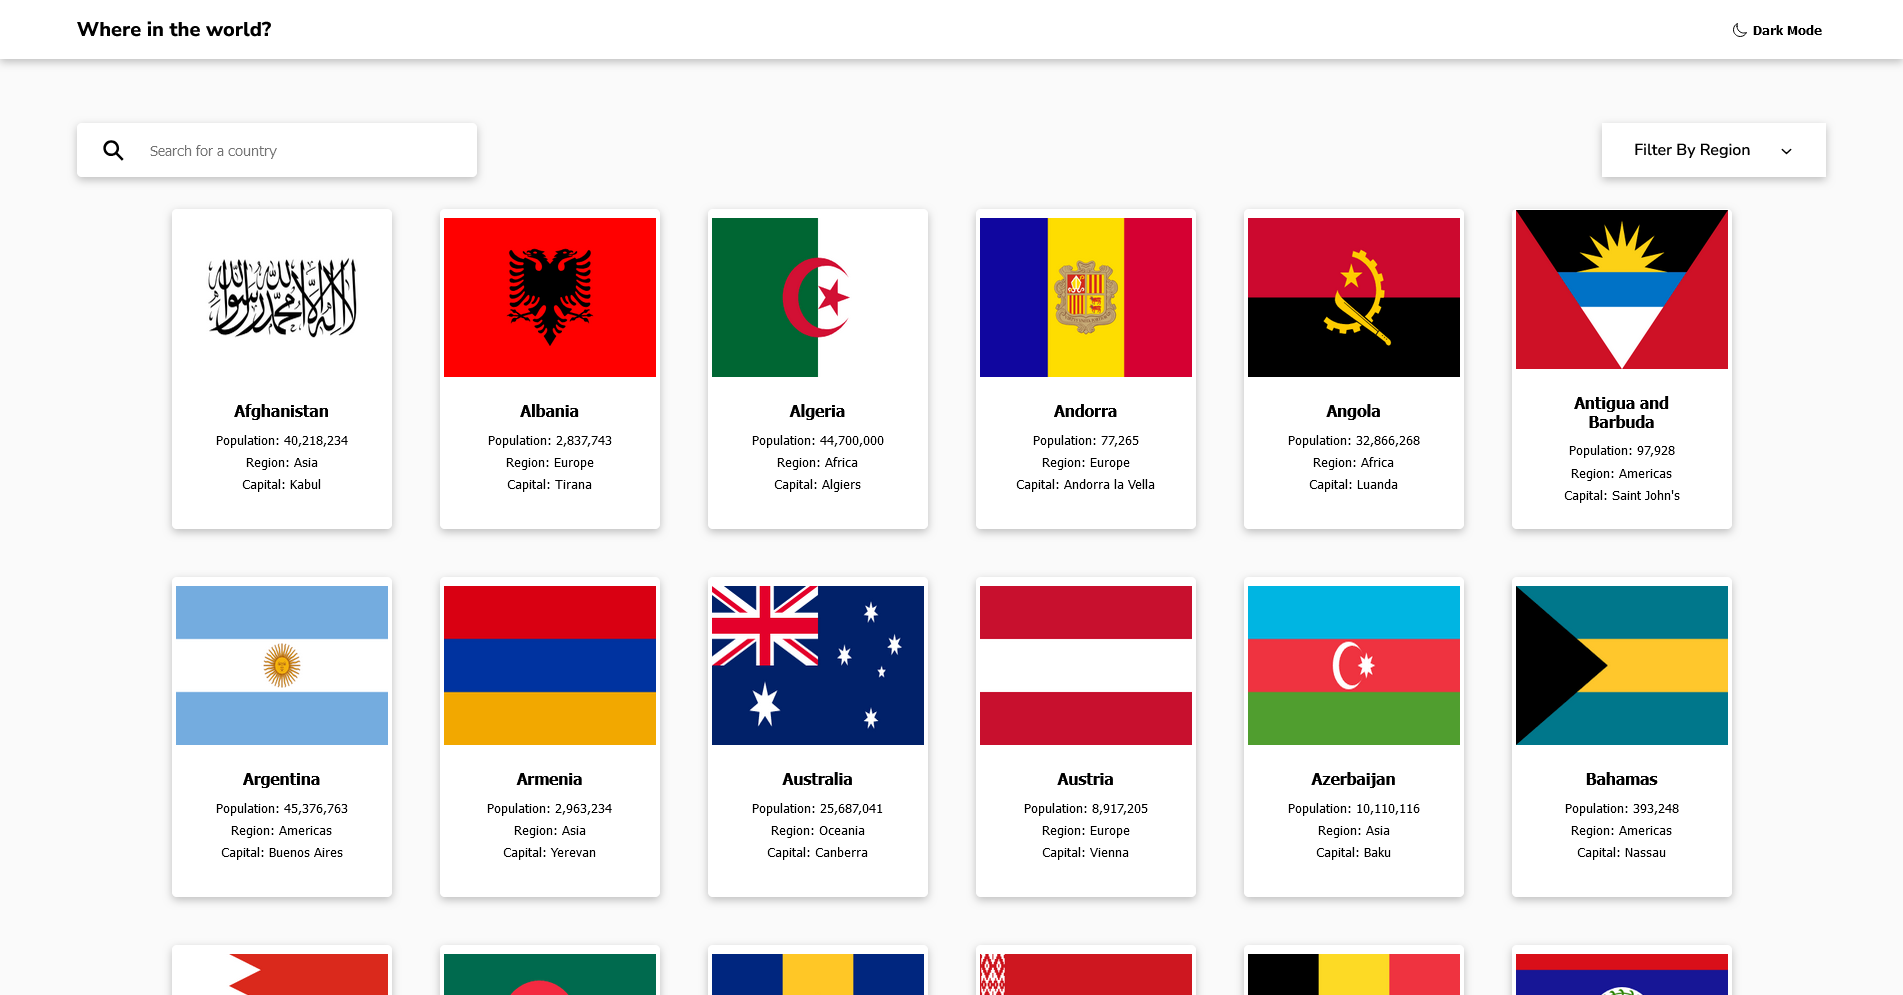
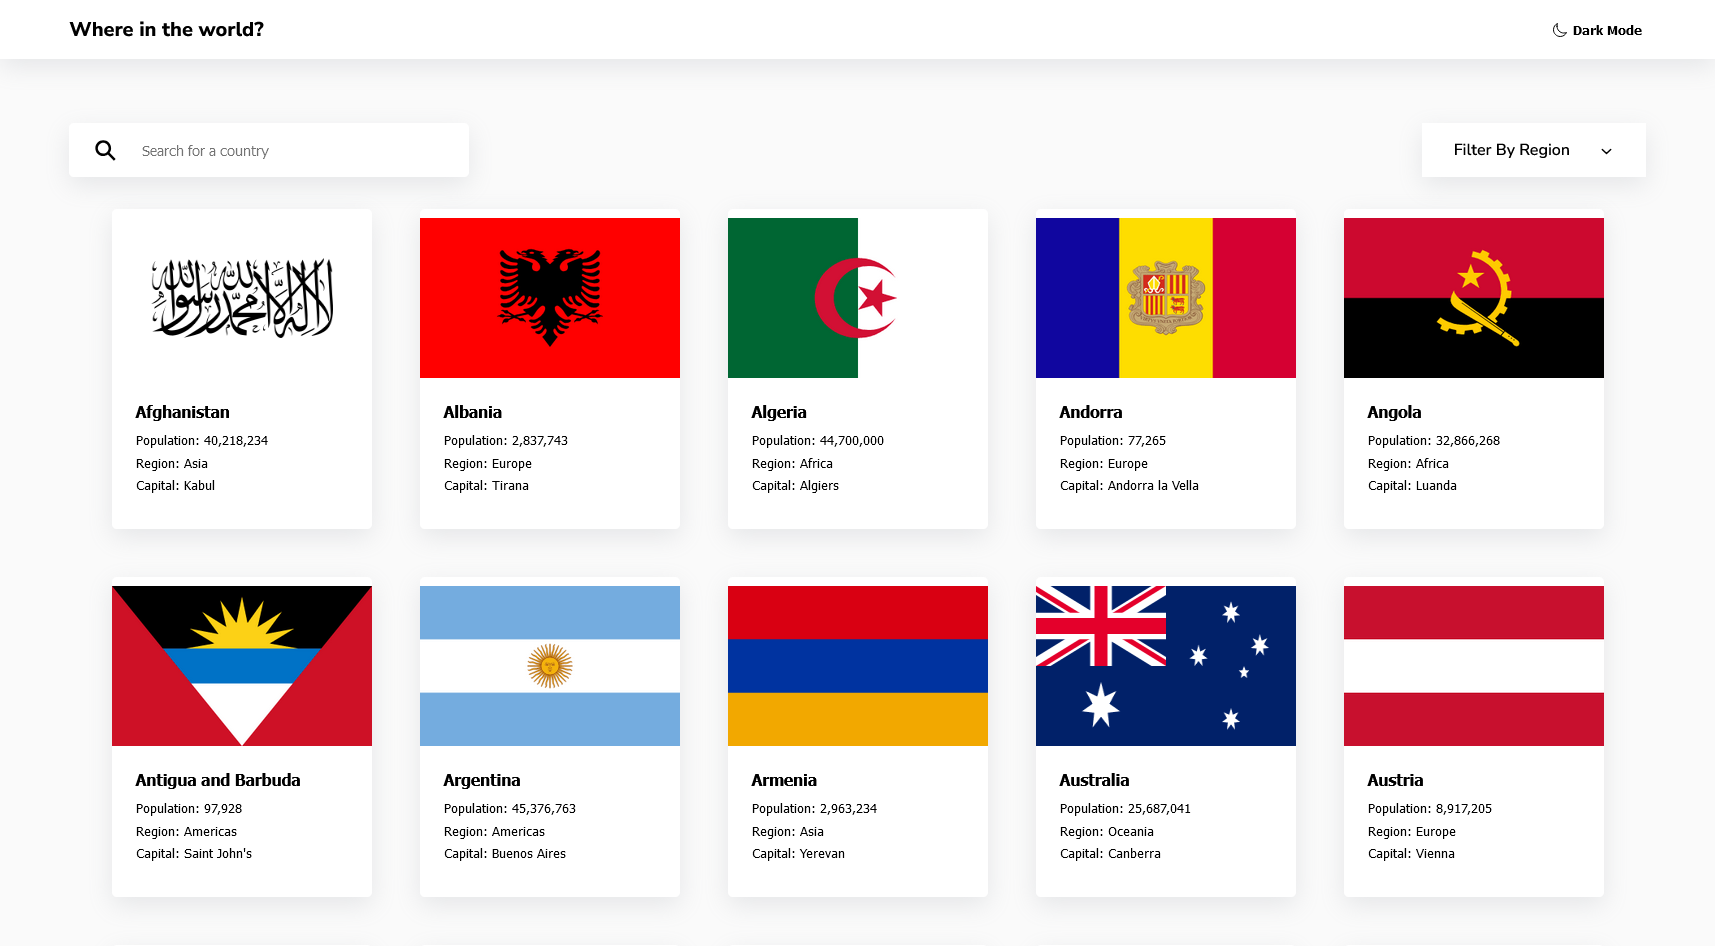
updated ui

diff --git a/styles.css b/styles.css
@@ -7,7 +7,7 @@ body {
     --background-color: hsl(0, 0%, 98%);
     --elementColor: white;
     --textColor: white;
-    --box-shadow: rgba(0, 0, 0, 0.24) 0px 3px 8px;
+    --box-shadow: rgba(149, 157, 165, 0.2) 0px 8px 24px;
 
     --primary-blue-highlight: #b9e2ff;
     --fontFamily: 'Nunito Sans';
@@ -203,13 +203,13 @@ body svg {
     display: grid;
     place-content: center;
     width: 100%;
-    grid-template-columns: repeat(auto-fill, 220px);
+    grid-template-columns: repeat(auto-fill, 260px);
     gap: 3rem;
     font-size: 14px;
 }
 
 .country-card {
-    width: 220px;
+    /* width: 260px; */
     height: 320px;
     box-shadow: var(--box-shadow);
     border-radius: 5px;
@@ -219,11 +219,16 @@ body svg {
     color: var(--text-color);
     transition: all var(--transitionDelay);
     border: 0;
+    padding: 0;
+    margin: 0; 
+    display: flex;
+    flex-direction: column;
+    text-align: left;
 }
 
 .country-flag {
-    height: calc(100%/2);
-    background-color: gray;
+    width: 100%;
+    height: 50%;
     border-top-left-radius: inherit;
     border-top-left-radius: inherit;
 }

diff --git a/README.md b/README.md
@@ -41,6 +41,8 @@ Users should be able to:
 ### Useful resources
 
 - [Asaeneh's 30 Day of JavaScript](https://github.com/Asabeneh/30-Days-Of-JavaScript)
+- [CSS Scan](https://getcssscan.com/css-box-shadow-examples)
+- [Ionicons](https://ionic.io/ionicons)
 
 
 ## Author
